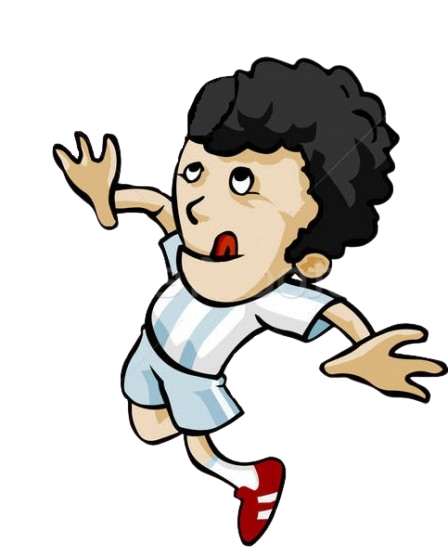
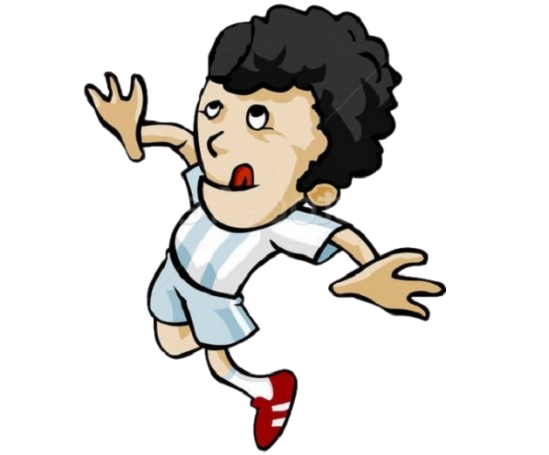
hw5_1_2 revision

diff --git a/HW5/hw5_1/Style5_1_2.css b/HW5/hw5_1/Style5_1_2.css
@@ -37,7 +37,7 @@ body {
     }
 
     to {
-        transform: translate(30vw, -18vh);
+        transform: translate(31vw, -21vh);
     }
 
 }
@@ -81,7 +81,7 @@ body {
     }
 
     to {
-        transform: translate(-11vw);
+        transform: translate(-9vw);
     }
 
 }
